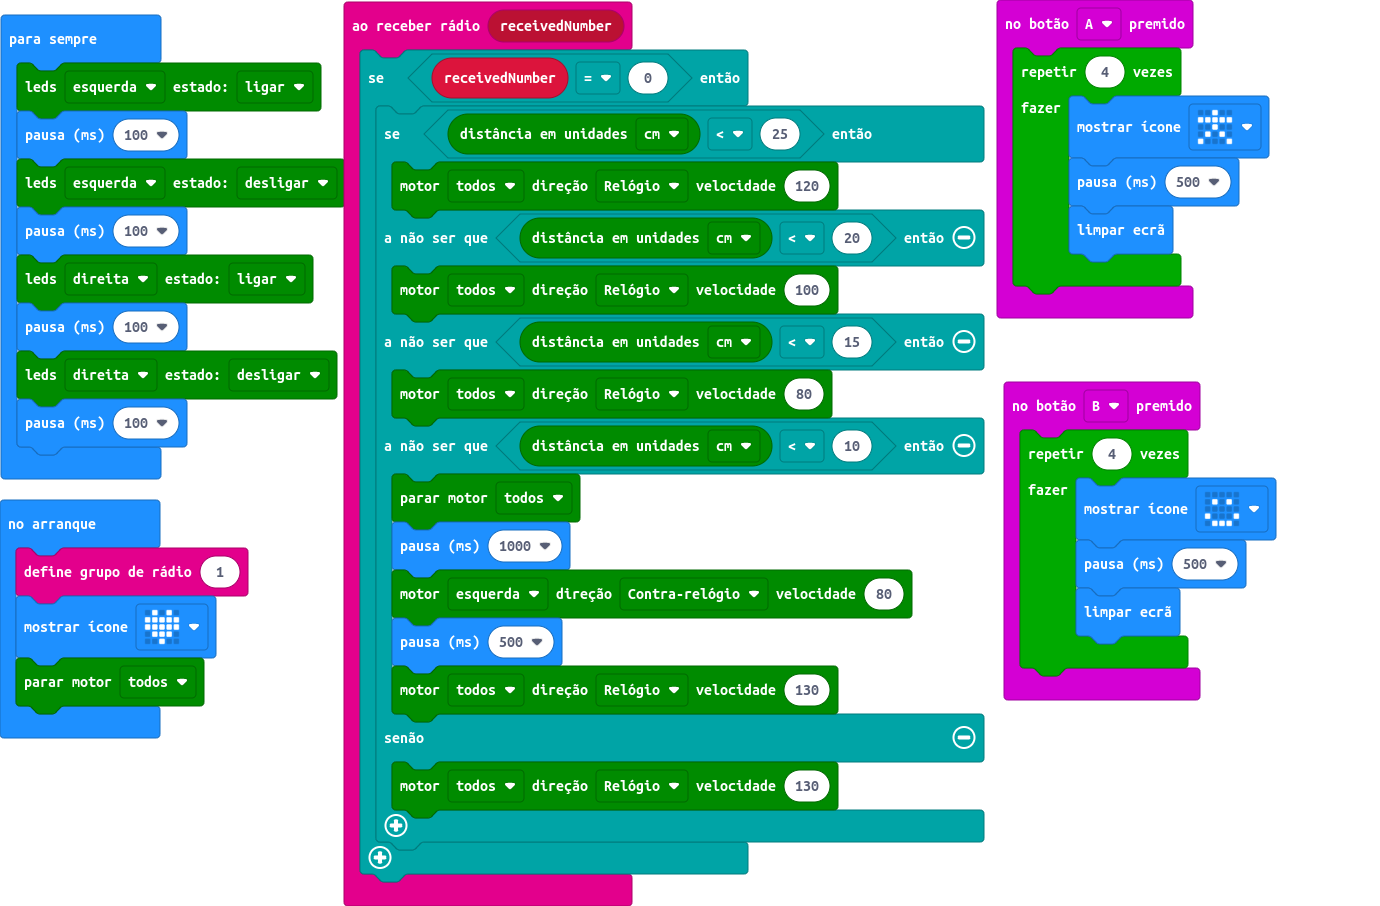
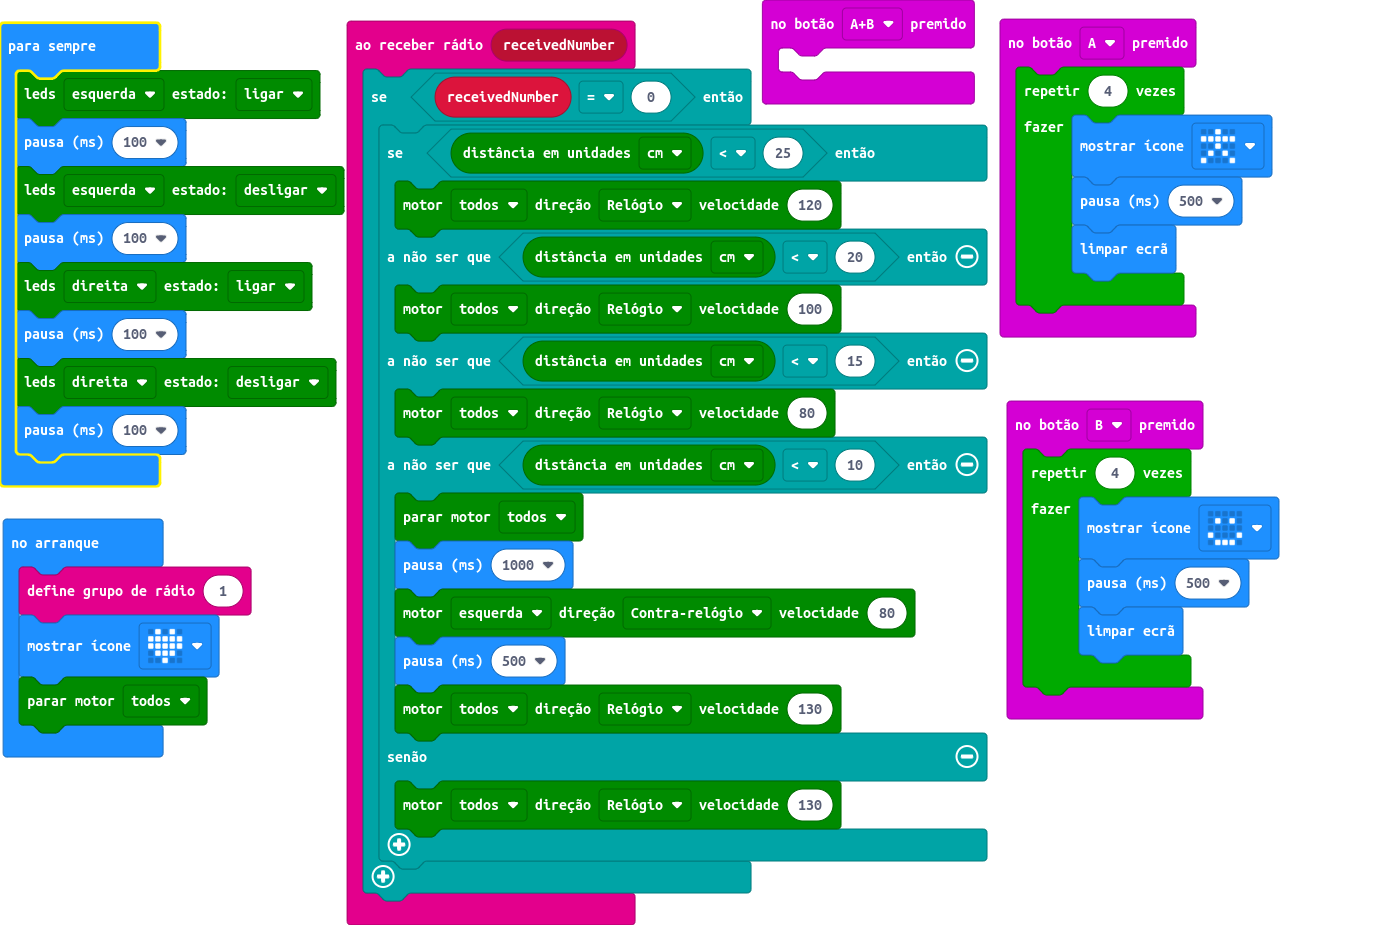
Atualização main.blocks, main.ts

diff --git a/main.ts b/main.ts
@@ -24,6 +24,9 @@ input.onButtonPressed(Button.A, function () {
         basic.clearScreen()
     }
 })
+input.onButtonPressed(Button.AB, function () {
+	
+})
 input.onButtonPressed(Button.B, function () {
     for (let index = 0; index < 4; index++) {
         basic.showIcon(IconNames.Happy)
